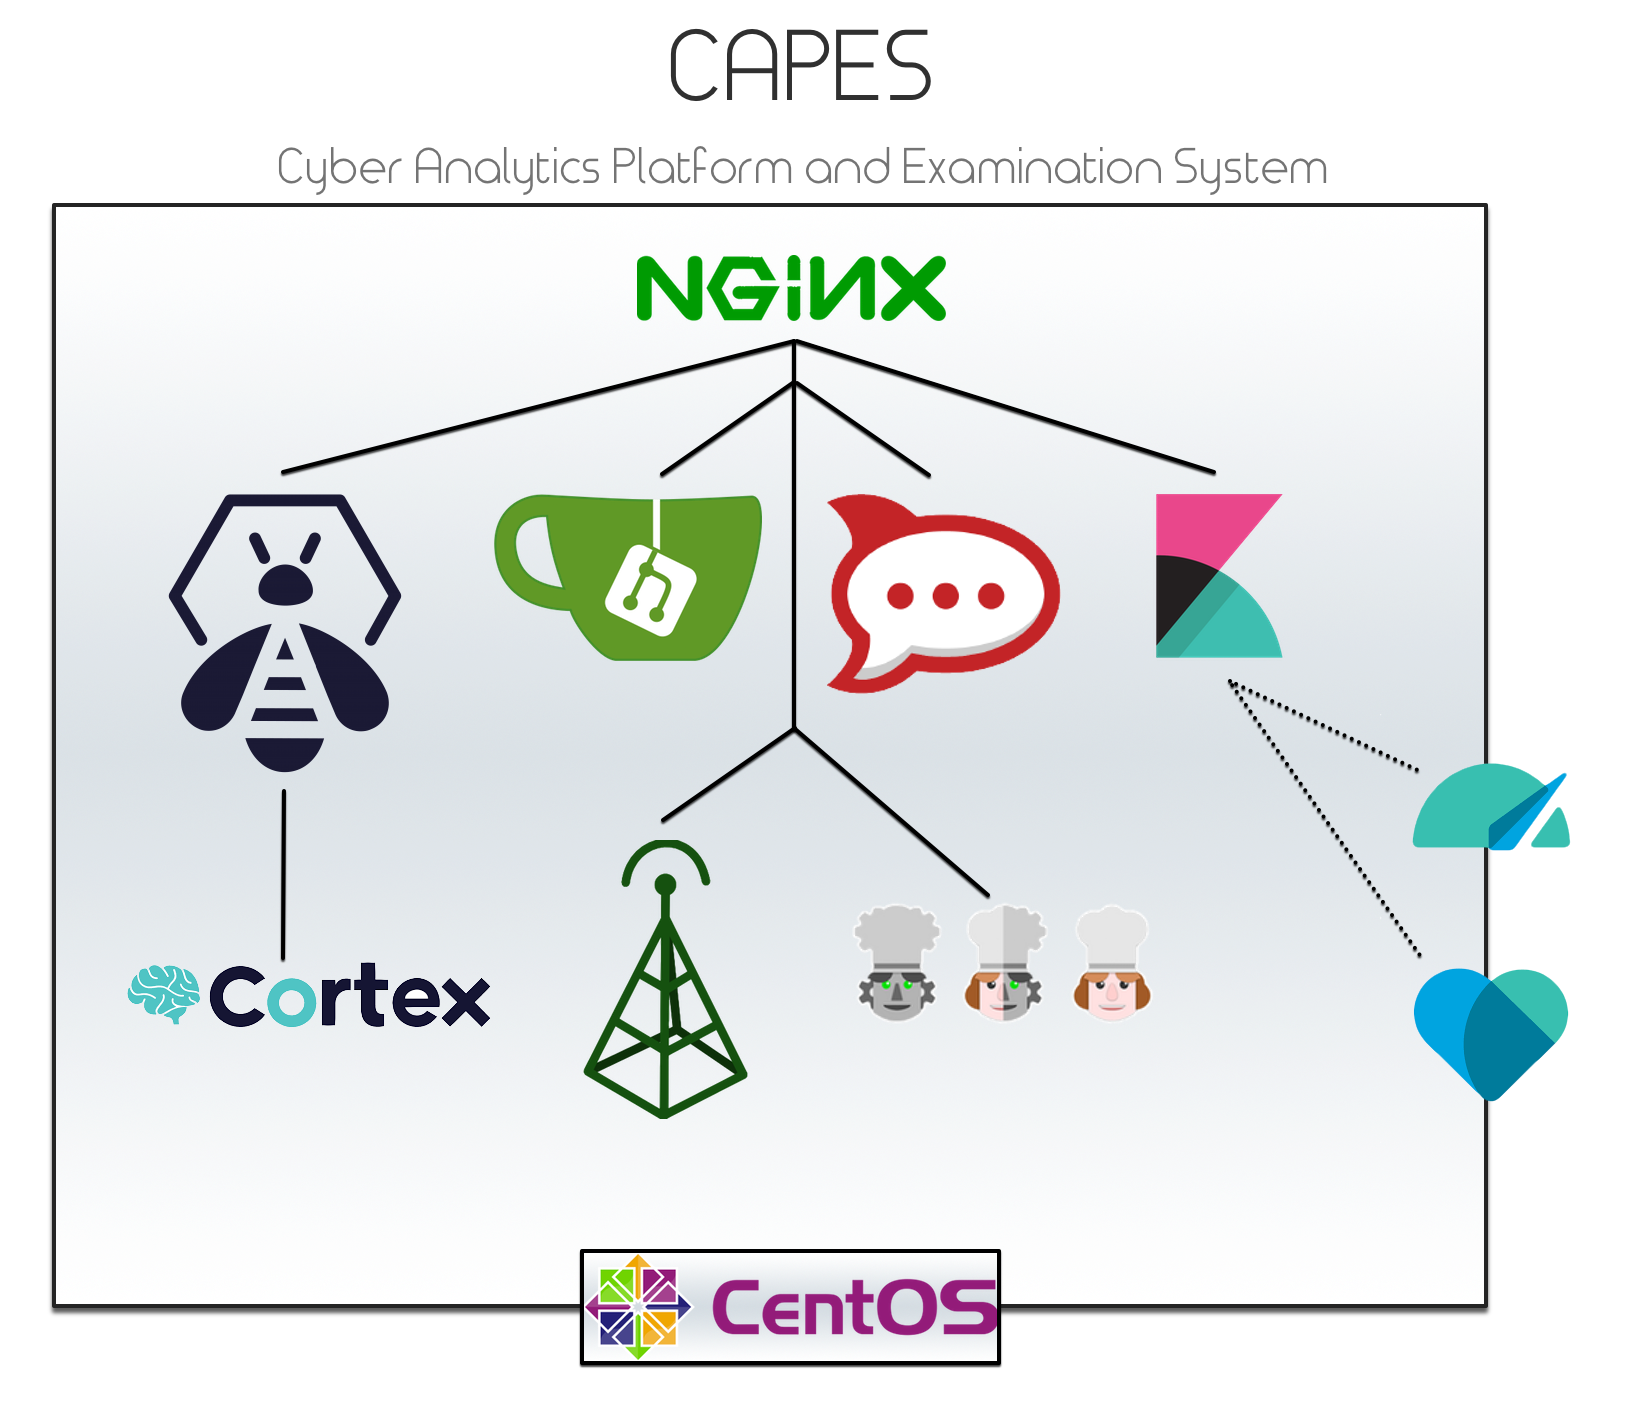
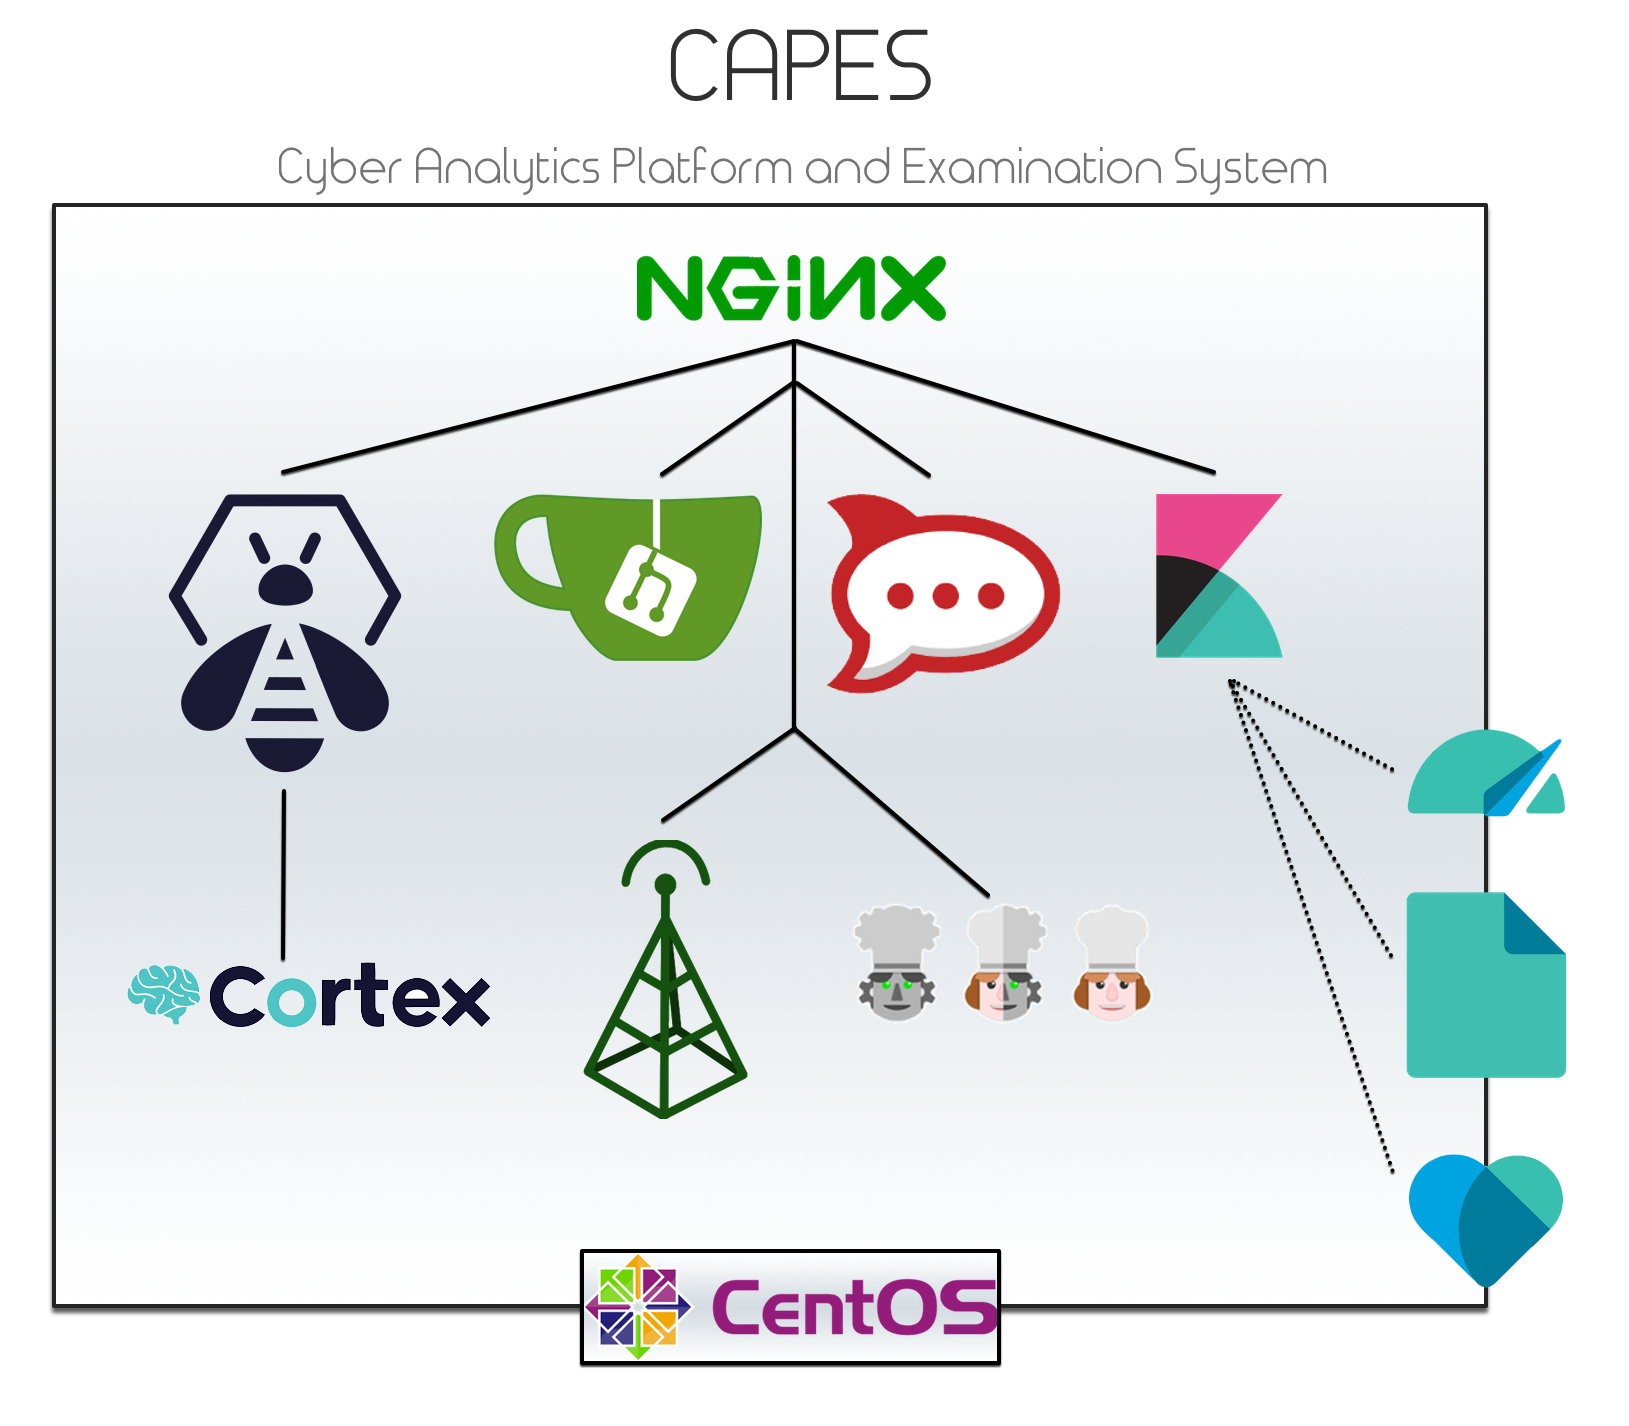
updated archtecture

diff --git a/index.md b/index.md
@@ -23,6 +23,8 @@ Please see below for Build, Operate, Maintain specifics on the different web app
 * [Cortex](https://github.com/capesstack/capes/blob/master/cortex/build_operate_maintain.md)  
 * [CyberChef](https://github.com/capesstack/capes/blob/master/cyberchef/build_operate_maintain.md)
 * [Mumble](https://github.com/capesstack/capes/blob/master/mumble/build_operate_maintain.md)  
+* [Beats](https://github.com/capesstack/capes/blob/master/beats/build_operate_maintain.md)
+* [Kibaba](https://github.com/capesstack/capes/blob/master/kibana/build_operate_maintain.md)
 
 ## Quick Start
 Ready to just get started? Just jump to the [quick start](#get-capes).
